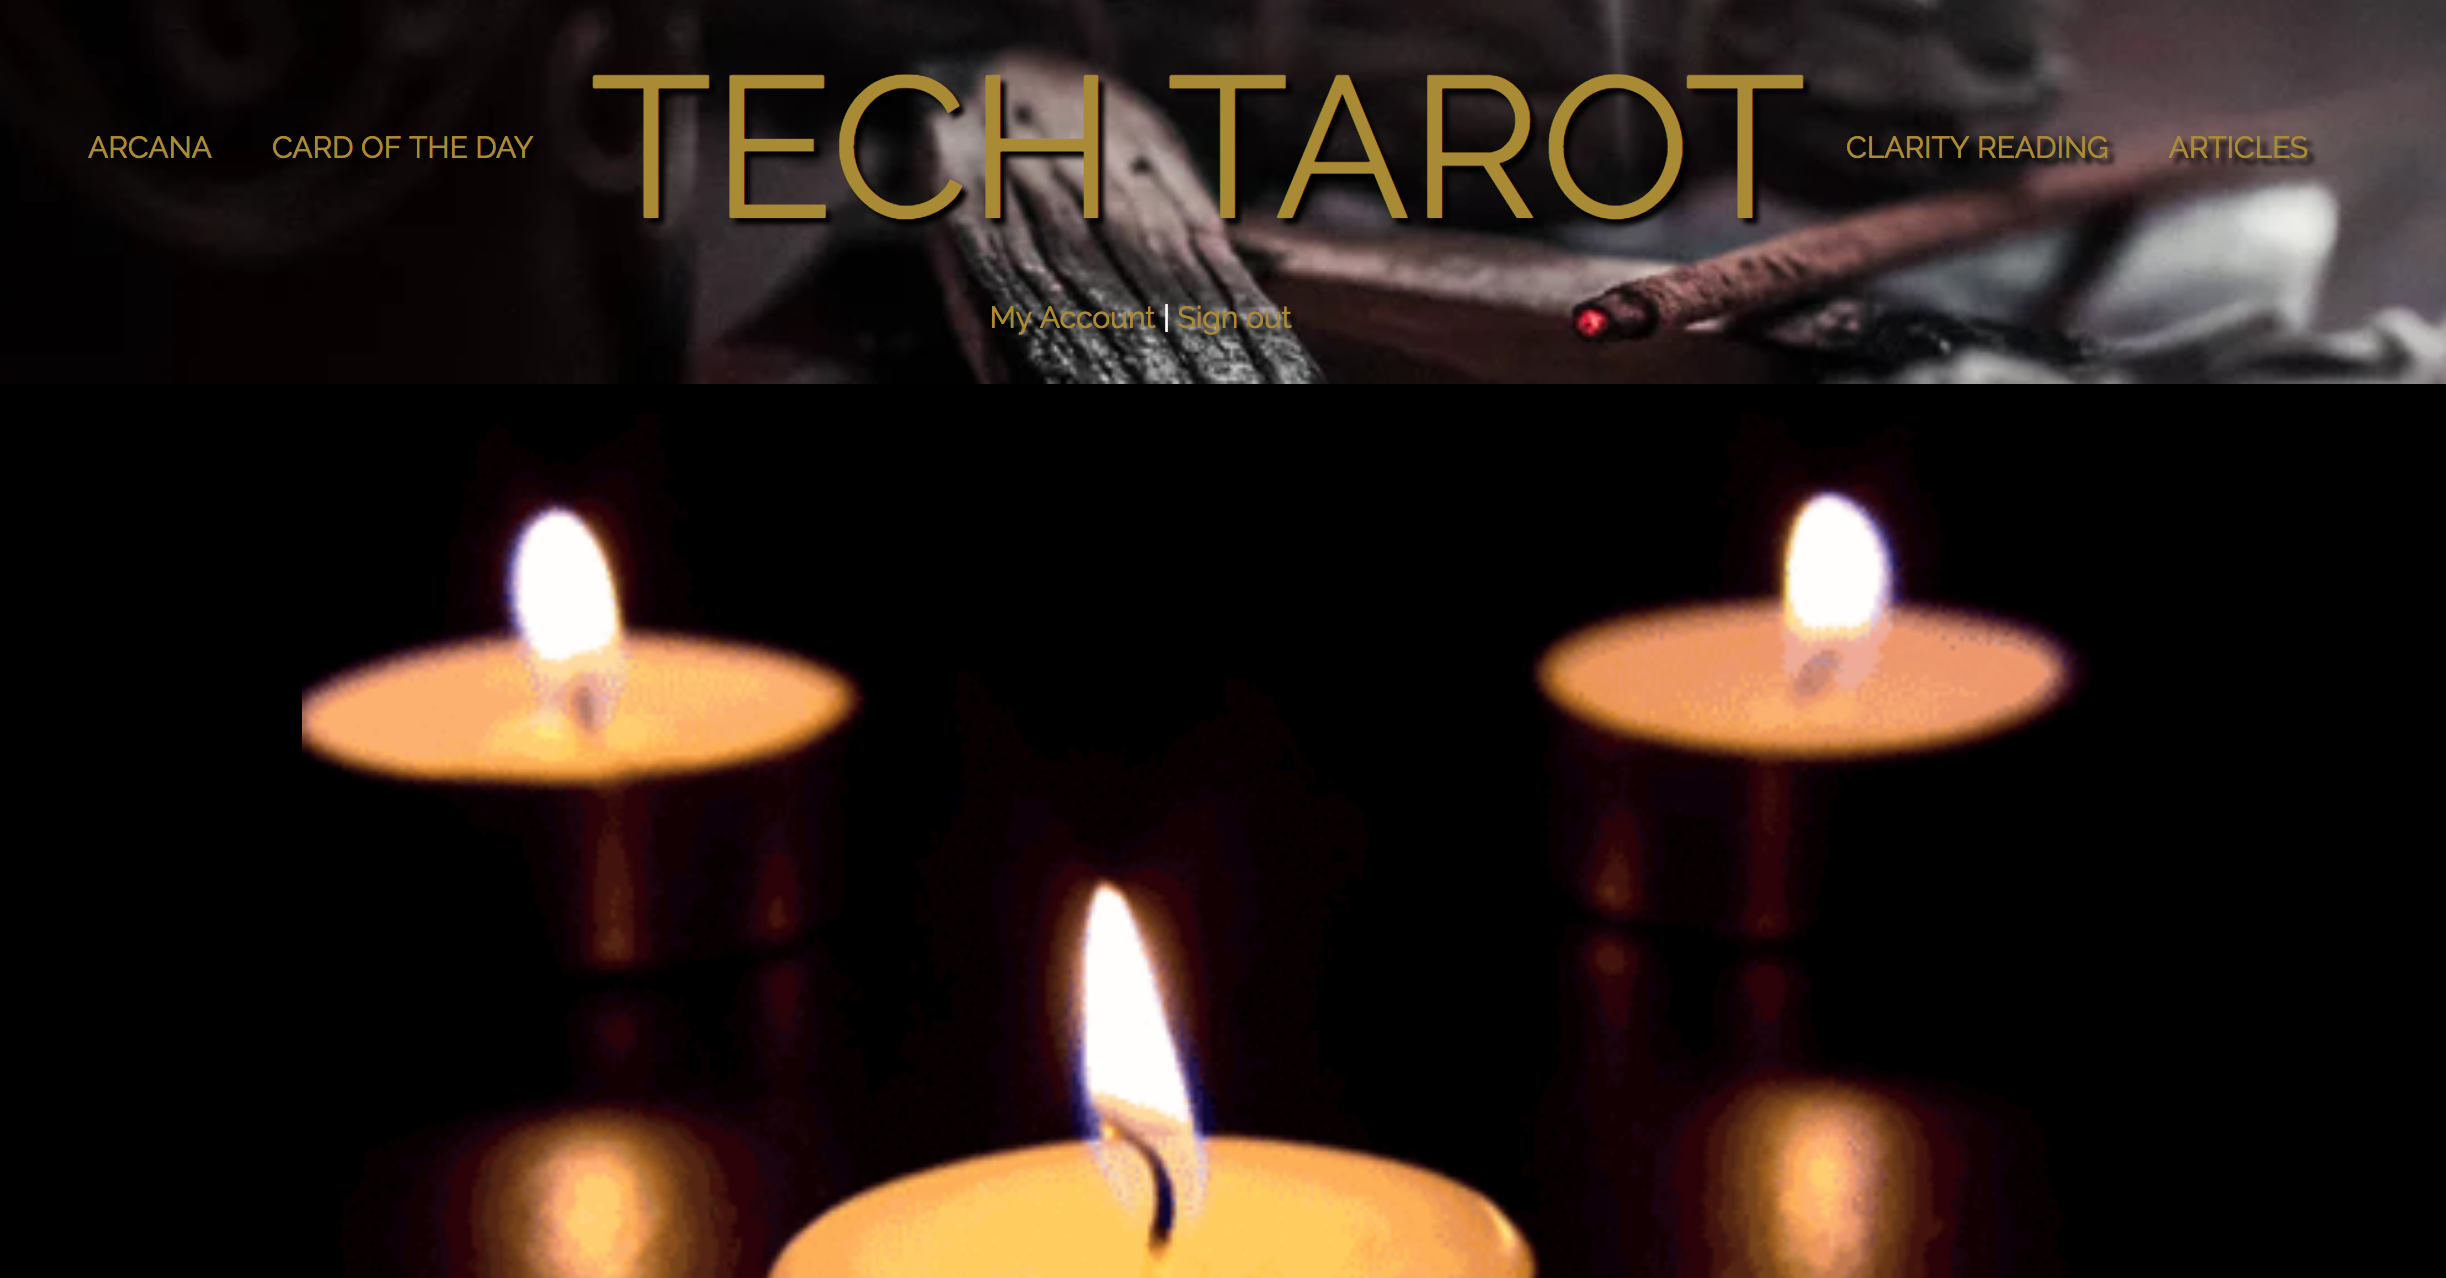
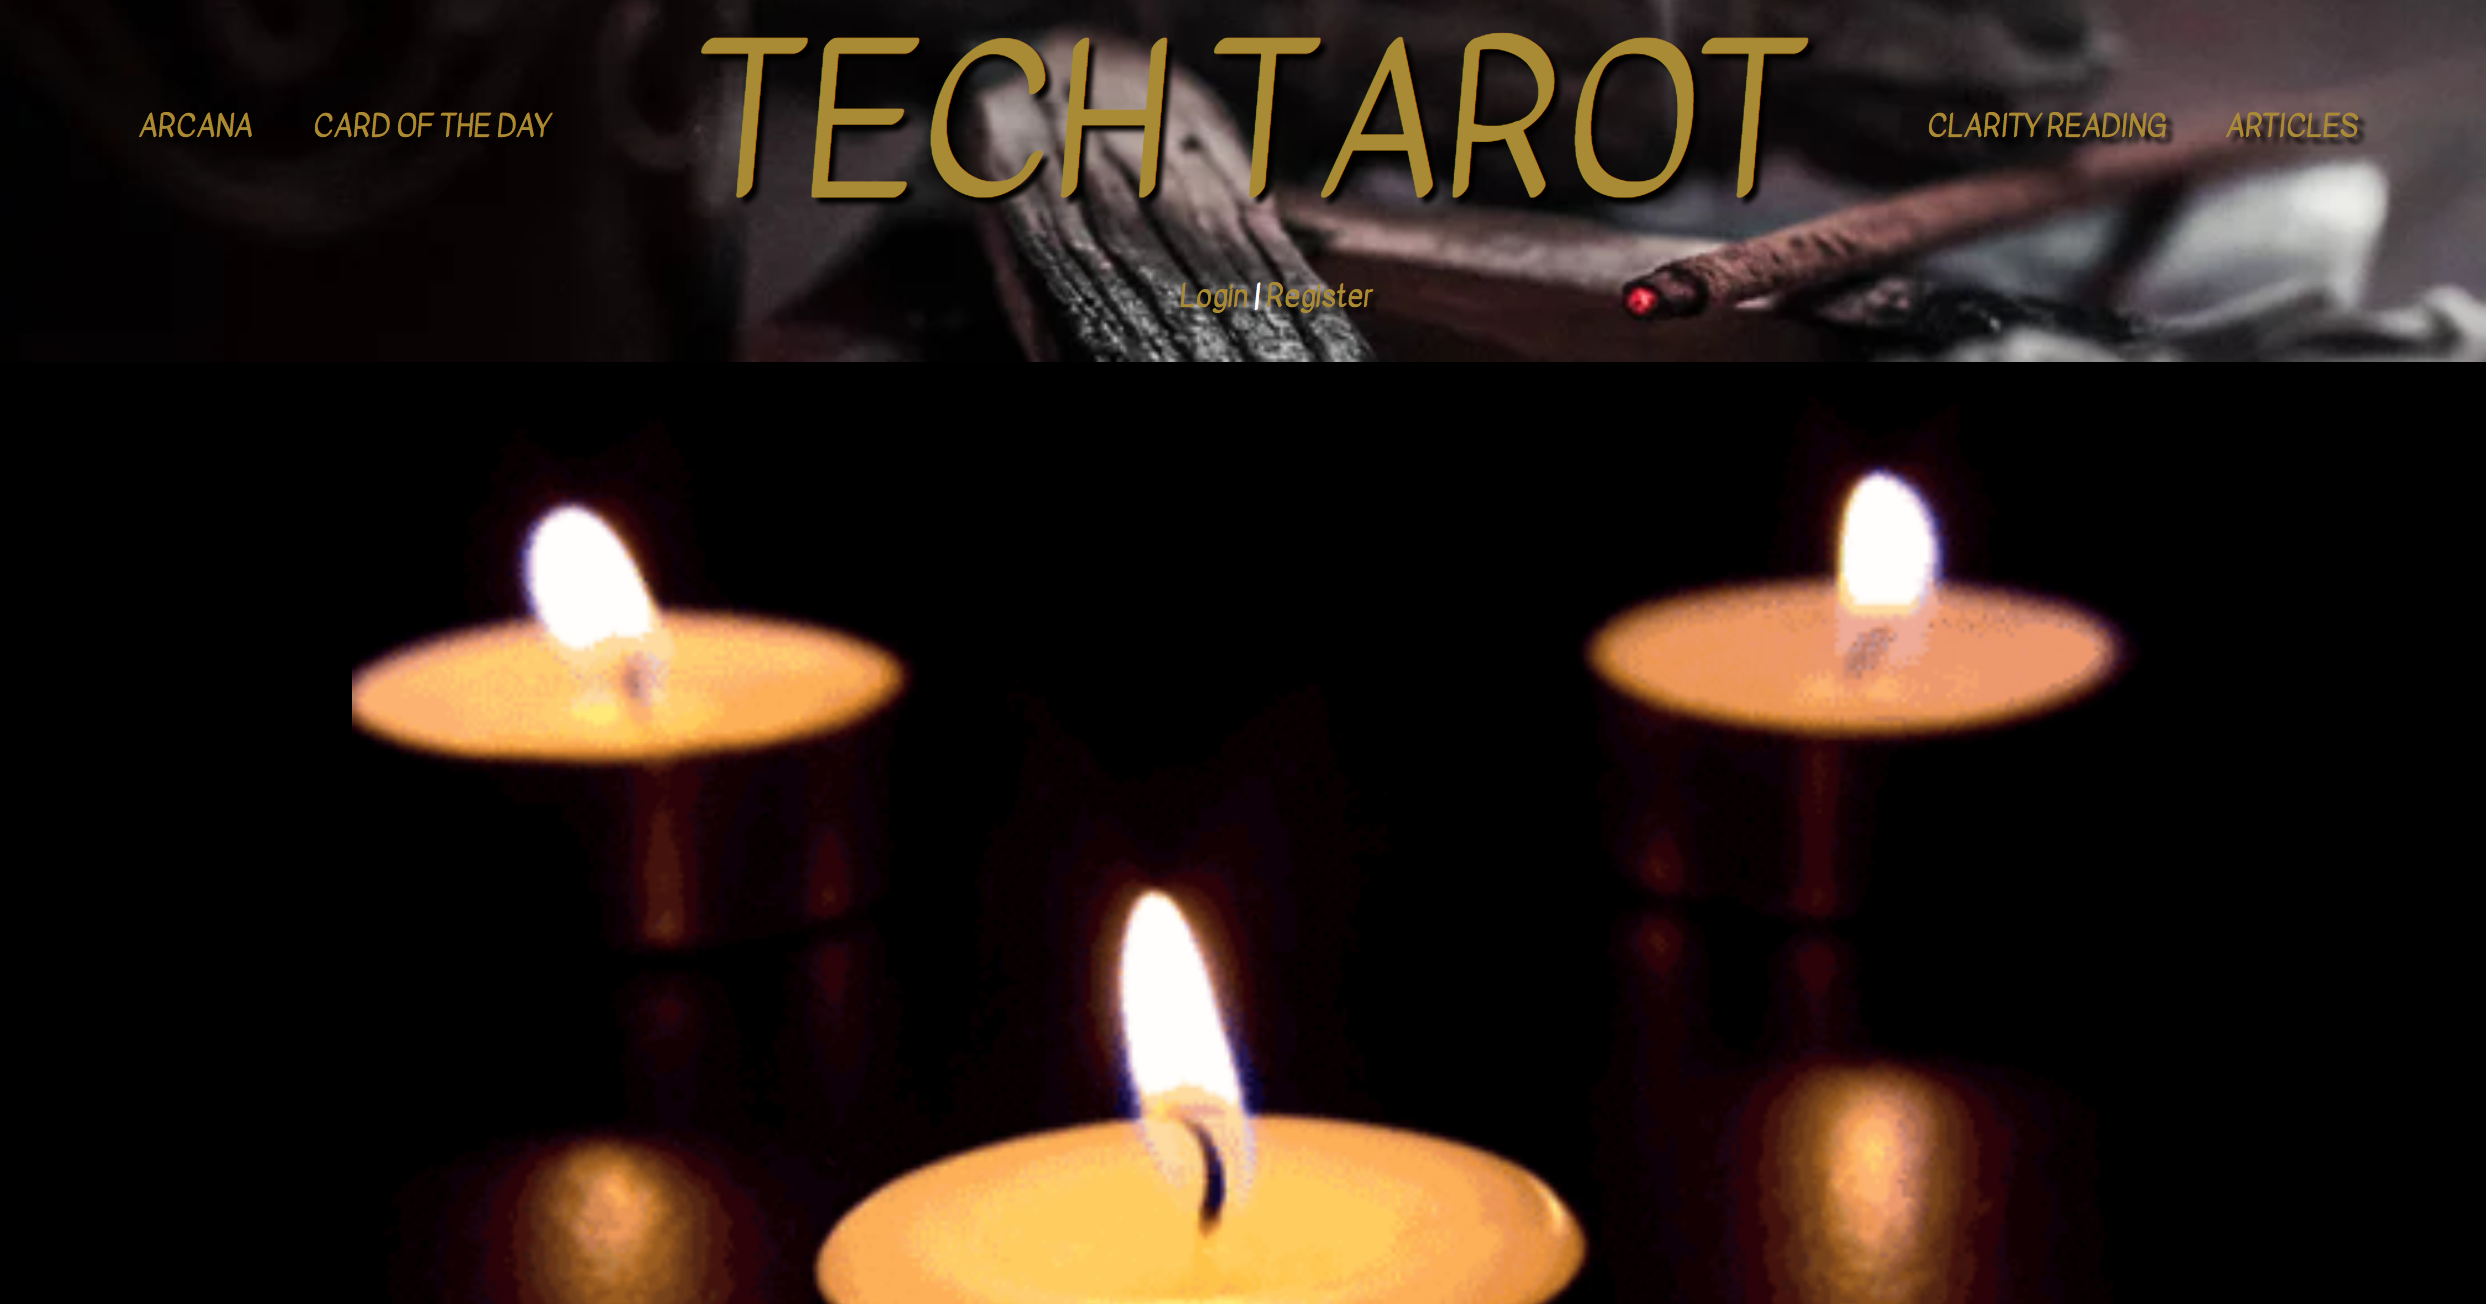
adjust AJAX on NASA page

diff --git a/app/assets/stylesheets/application.scss b/app/assets/stylesheets/application.scss
@@ -18,7 +18,7 @@
 $error-color: color("red", "base") !default;
 
 html, body {
-  font-family: 'Roboto', sans-serif;
+  font-family: 'Old Standard TT', serif;
   background: black;
   color: #AA8C2C;
 }
@@ -165,7 +165,7 @@ html, body a:hover {
   width: 100%;
 }
 
-#deck_show, #search_bar, #ornament_pic {
+#deck_show, #search_bar, #ornament_pic, #nasa_info, #card_info {
   display: none;
 }
 

diff --git a/app/controllers/nasas_controller.rb b/app/controllers/nasas_controller.rb
@@ -1,5 +1,4 @@
 class NasasController < ApplicationController
-
   def index
     @card = Card.oneCard()
   	@nasa_info = Nasa.get_api_info(params[:date] || Time.now.in_time_zone('US/Eastern').to_date.to_s)
@@ -16,5 +15,4 @@ class NasasController < ApplicationController
       format.js
      end
   end
-
 end

diff --git a/app/models/article.rb b/app/models/article.rb
@@ -12,10 +12,4 @@ class Article
     api = http.request(request).body
     @result = JSON.parse(api)["response"]["docs"]
   end
-
-  # def printArticles
-  #   @result["response"]["docs"].each do |article|
-  #     return article["web_url"]
-  #   end
-  # end
 end
